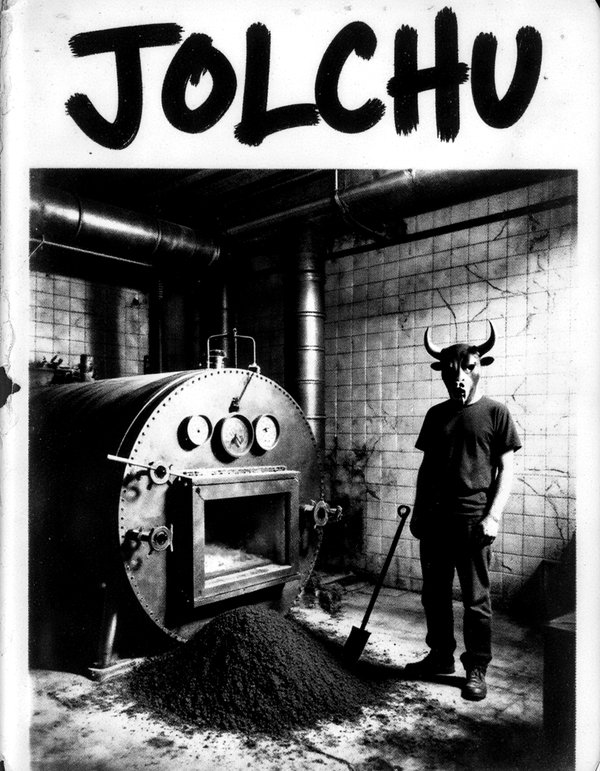
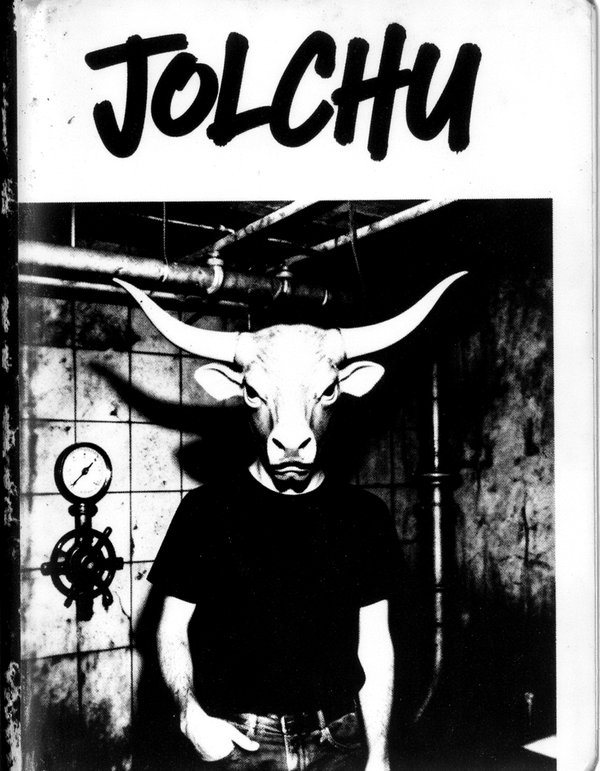
Jolchu cover: bull-mask figure centred, pipes behind (owner's pick)
Claude-Session: https://claude.ai/code/session_014sMmtxS7APooUByBnHUrmP

diff --git a/wiki/Jolchu_(Album).html b/wiki/Jolchu_(Album).html
@@ -14,7 +14,7 @@
 <meta property="og:description" content="Jolchu (Iradi: &quot;Wayfarer&quot;) is the debut album of the Iradi electronic duo tüntolk, self-released on cassette in Nurzhan on 11 September 1999. Recorded on a…">
 <meta property="og:url" content="https://irad.wiki/wiki/Jolchu_(Album)">
 <meta property="og:image" content="https://irad.wiki/images/Jolchu_cover.jpg">
-<meta property="og:image:alt" content="Black-and-white photocopy of a figure in a bull mask beside a riveted industrial boiler in a tiled boiler room, with JOLCHU hand-lettered above">
+<meta property="og:image:alt" content="Black-and-white photocopy of a man in a bull mask with long horns in a basement full of pipes, with JOLCHU hand-lettered above">
 <meta property="og:locale" content="en_US">
 <meta name="twitter:card" content="summary_large_image">
 <meta name="twitter:title" content="Jolchu (Album) – Irad Wiki">
@@ -90,7 +90,7 @@
 <div class="title-row"><h1 class="firstHeading">Jolchu (Album)</h1></div>
 <div class="siteSub">From Irad Wiki, the free encyclopedia</div>
 <div class="prose">
-<figure class="thumb lead" style="width:228px"><img src="/images/Jolchu_cover.jpg" width="220" alt="Black-and-white photocopy of a figure in a bull mask beside a riveted industrial boiler in a tiled boiler room, with JOLCHU hand-lettered above"><figcaption>Photocopied cassette cover, 1999</figcaption></figure>
+<figure class="thumb lead" style="width:228px"><img src="/images/Jolchu_cover.jpg" width="220" alt="Black-and-white photocopy of a man in a bull mask with long horns in a basement full of pipes, with JOLCHU hand-lettered above"><figcaption>Photocopied cassette cover, 1999</figcaption></figure>
 <p><em><strong>Jolchu</strong></em> (Iradi: &quot;Wayfarer&quot;) is the debut album of the Iradi electronic duo <a class="wl" href="/wiki/t%C3%BCntolk" title="tüntolk">tüntolk</a>, self-released on cassette in <a class="wl" href="/wiki/Nurzhan" title="Nurzhan">Nurzhan</a> on 11 September 1999. Recorded on a borrowed four-track cassette recorder in a district-heating boiler room, it is generally treated as the founding record of <a class="wl" href="/wiki/Mor-Wave" title="Mor-Wave">Mor-Wave</a>.<sup>[1]</sup></p>
 <h2>Background</h2>
 <p>Askar Daniyarov and Mira Temirova met in 1996 at an informal concert in a boiler room in Nurzhan's Dastgoh district, where Daniyarov worked nights as a stoker and local musicians rehearsed. They began writing together in 1997. Temirova, a philology student at <a class="wl" href="/wiki/Talas_State_University" title="Talas State University">Talas State University</a>, had grown up speaking Russian at home and learned Iradi from her grandmother; at a time when most young urban musicians sang in Russian or English, she chose to write only in Iradi.<sup>[1]</sup></p>
